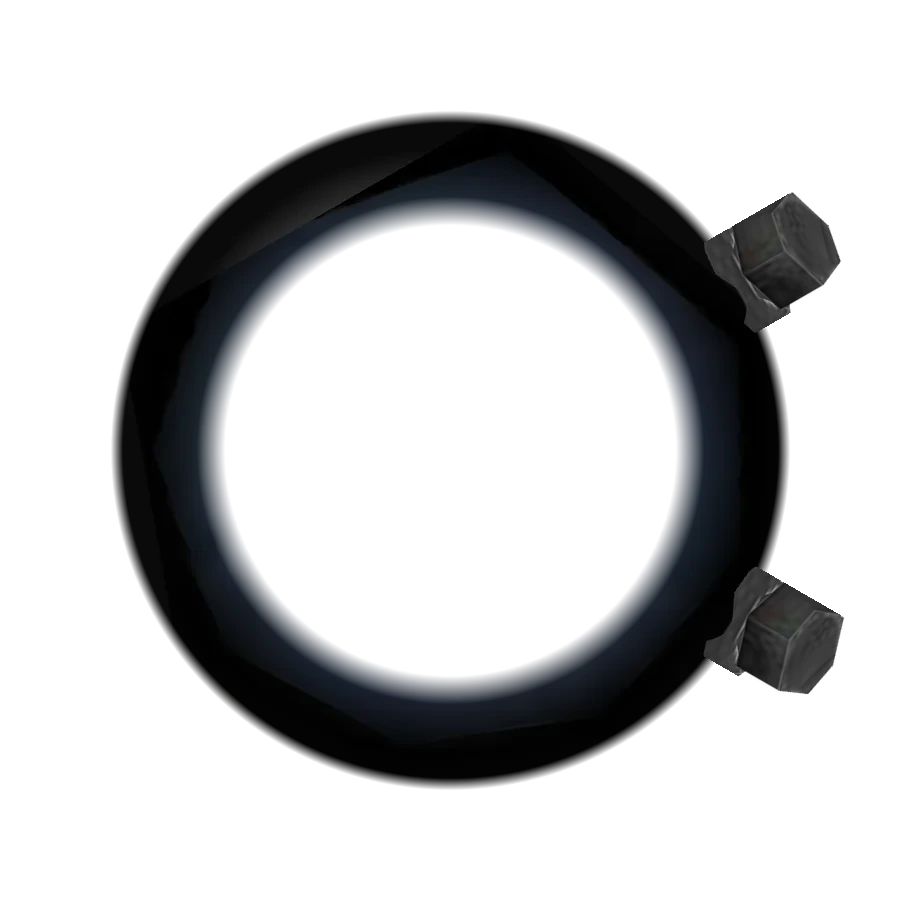
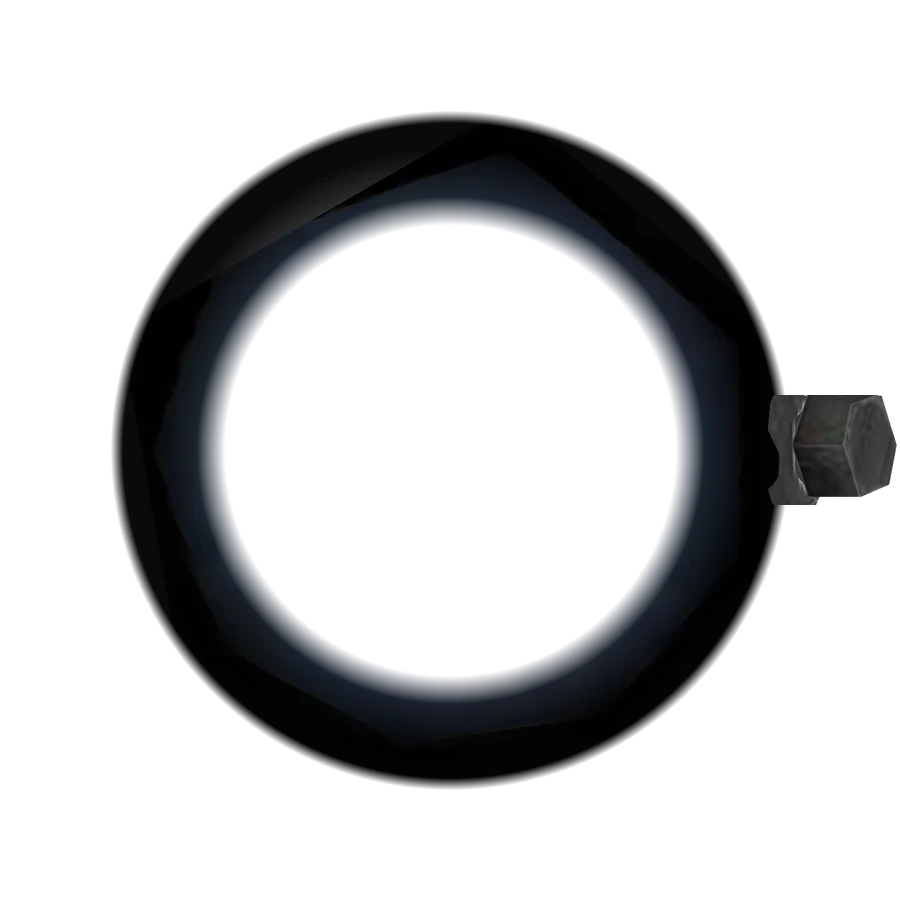
v584: sniper scope has one turret knob (the second one removed)
Claude-Session: https://claude.ai/code/session_01WcJFhuhUP29FGMzSD861z5

Changed region(s): [[0.84, 0.4356, 0.9956, 0.56], [0.7778, 0.2178, 0.9333, 0.3733], [0.7778, 0.6222, 0.9333, 0.7778]]

diff --git a/public/index.html b/public/index.html
@@ -47,7 +47,7 @@
         <button class="btn purple" id="b-settings">&#9881; SETTINGS</button>
       </div>
     </div>
-    <div class="verbadge">VERSION v583</div>
+    <div class="verbadge">VERSION v584</div>
     <div class="made">&copy; HARIS &bull; Punjabi GTA</div>
   </section>
 
